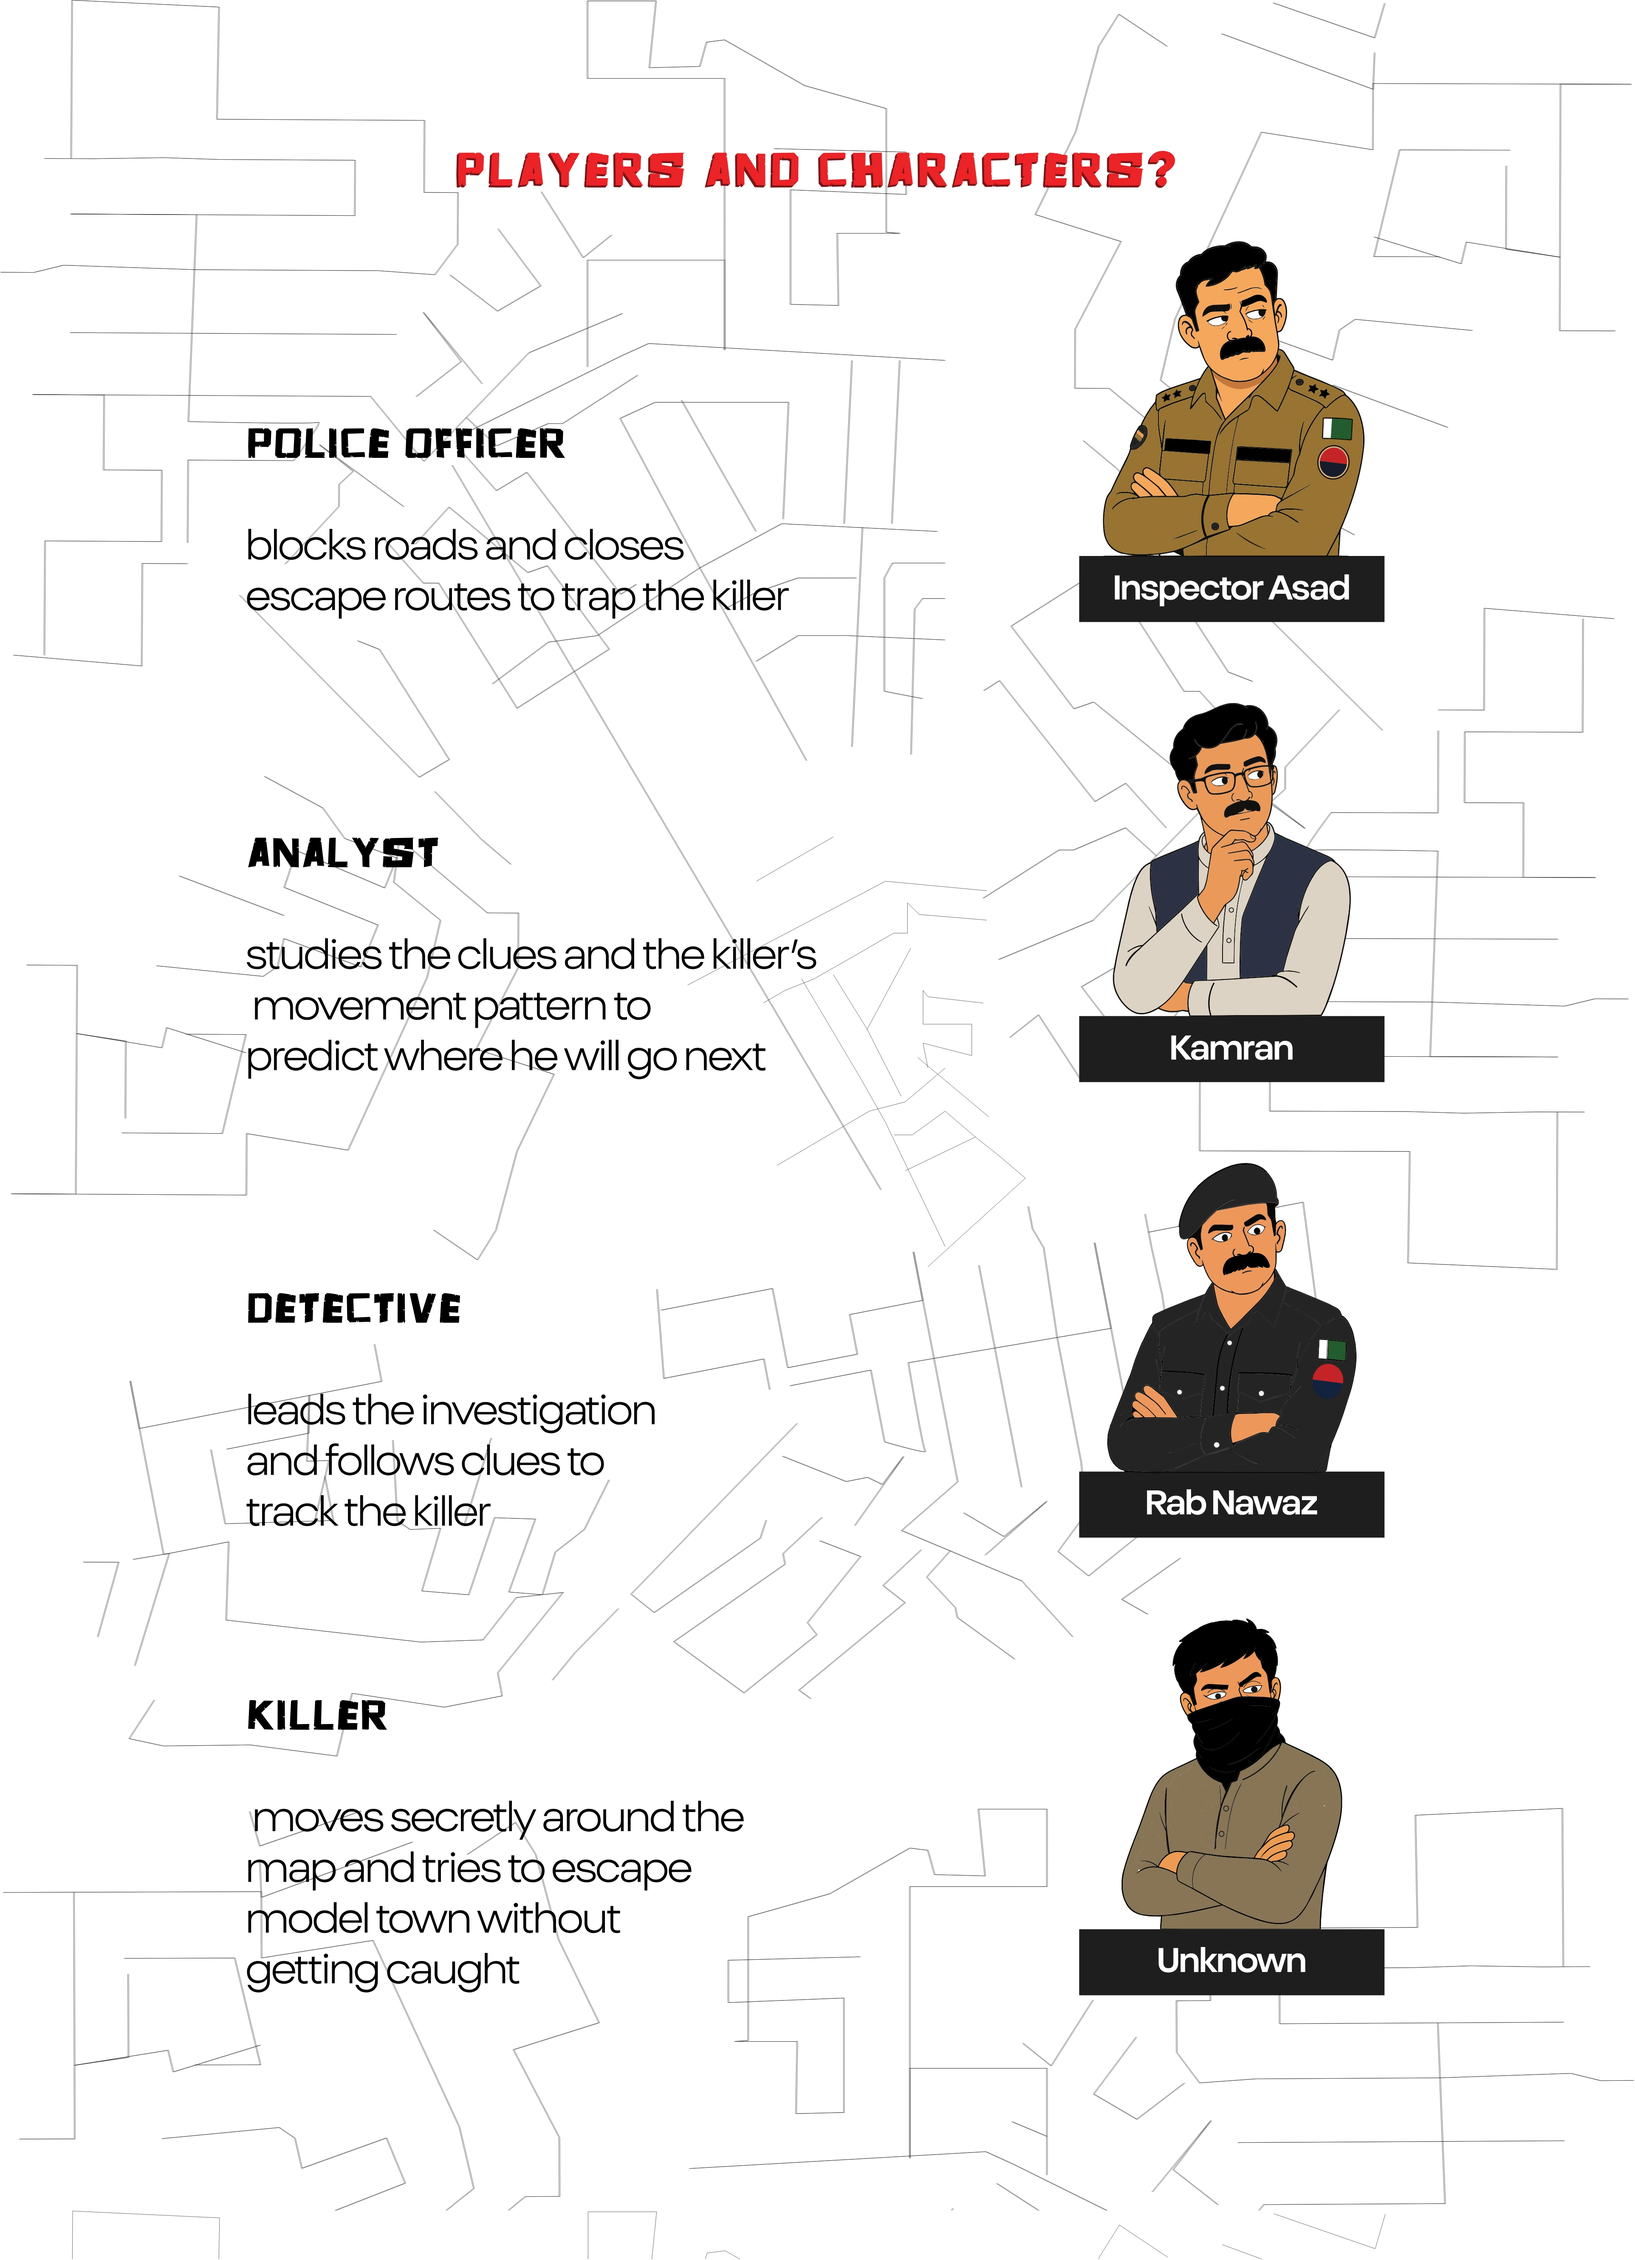
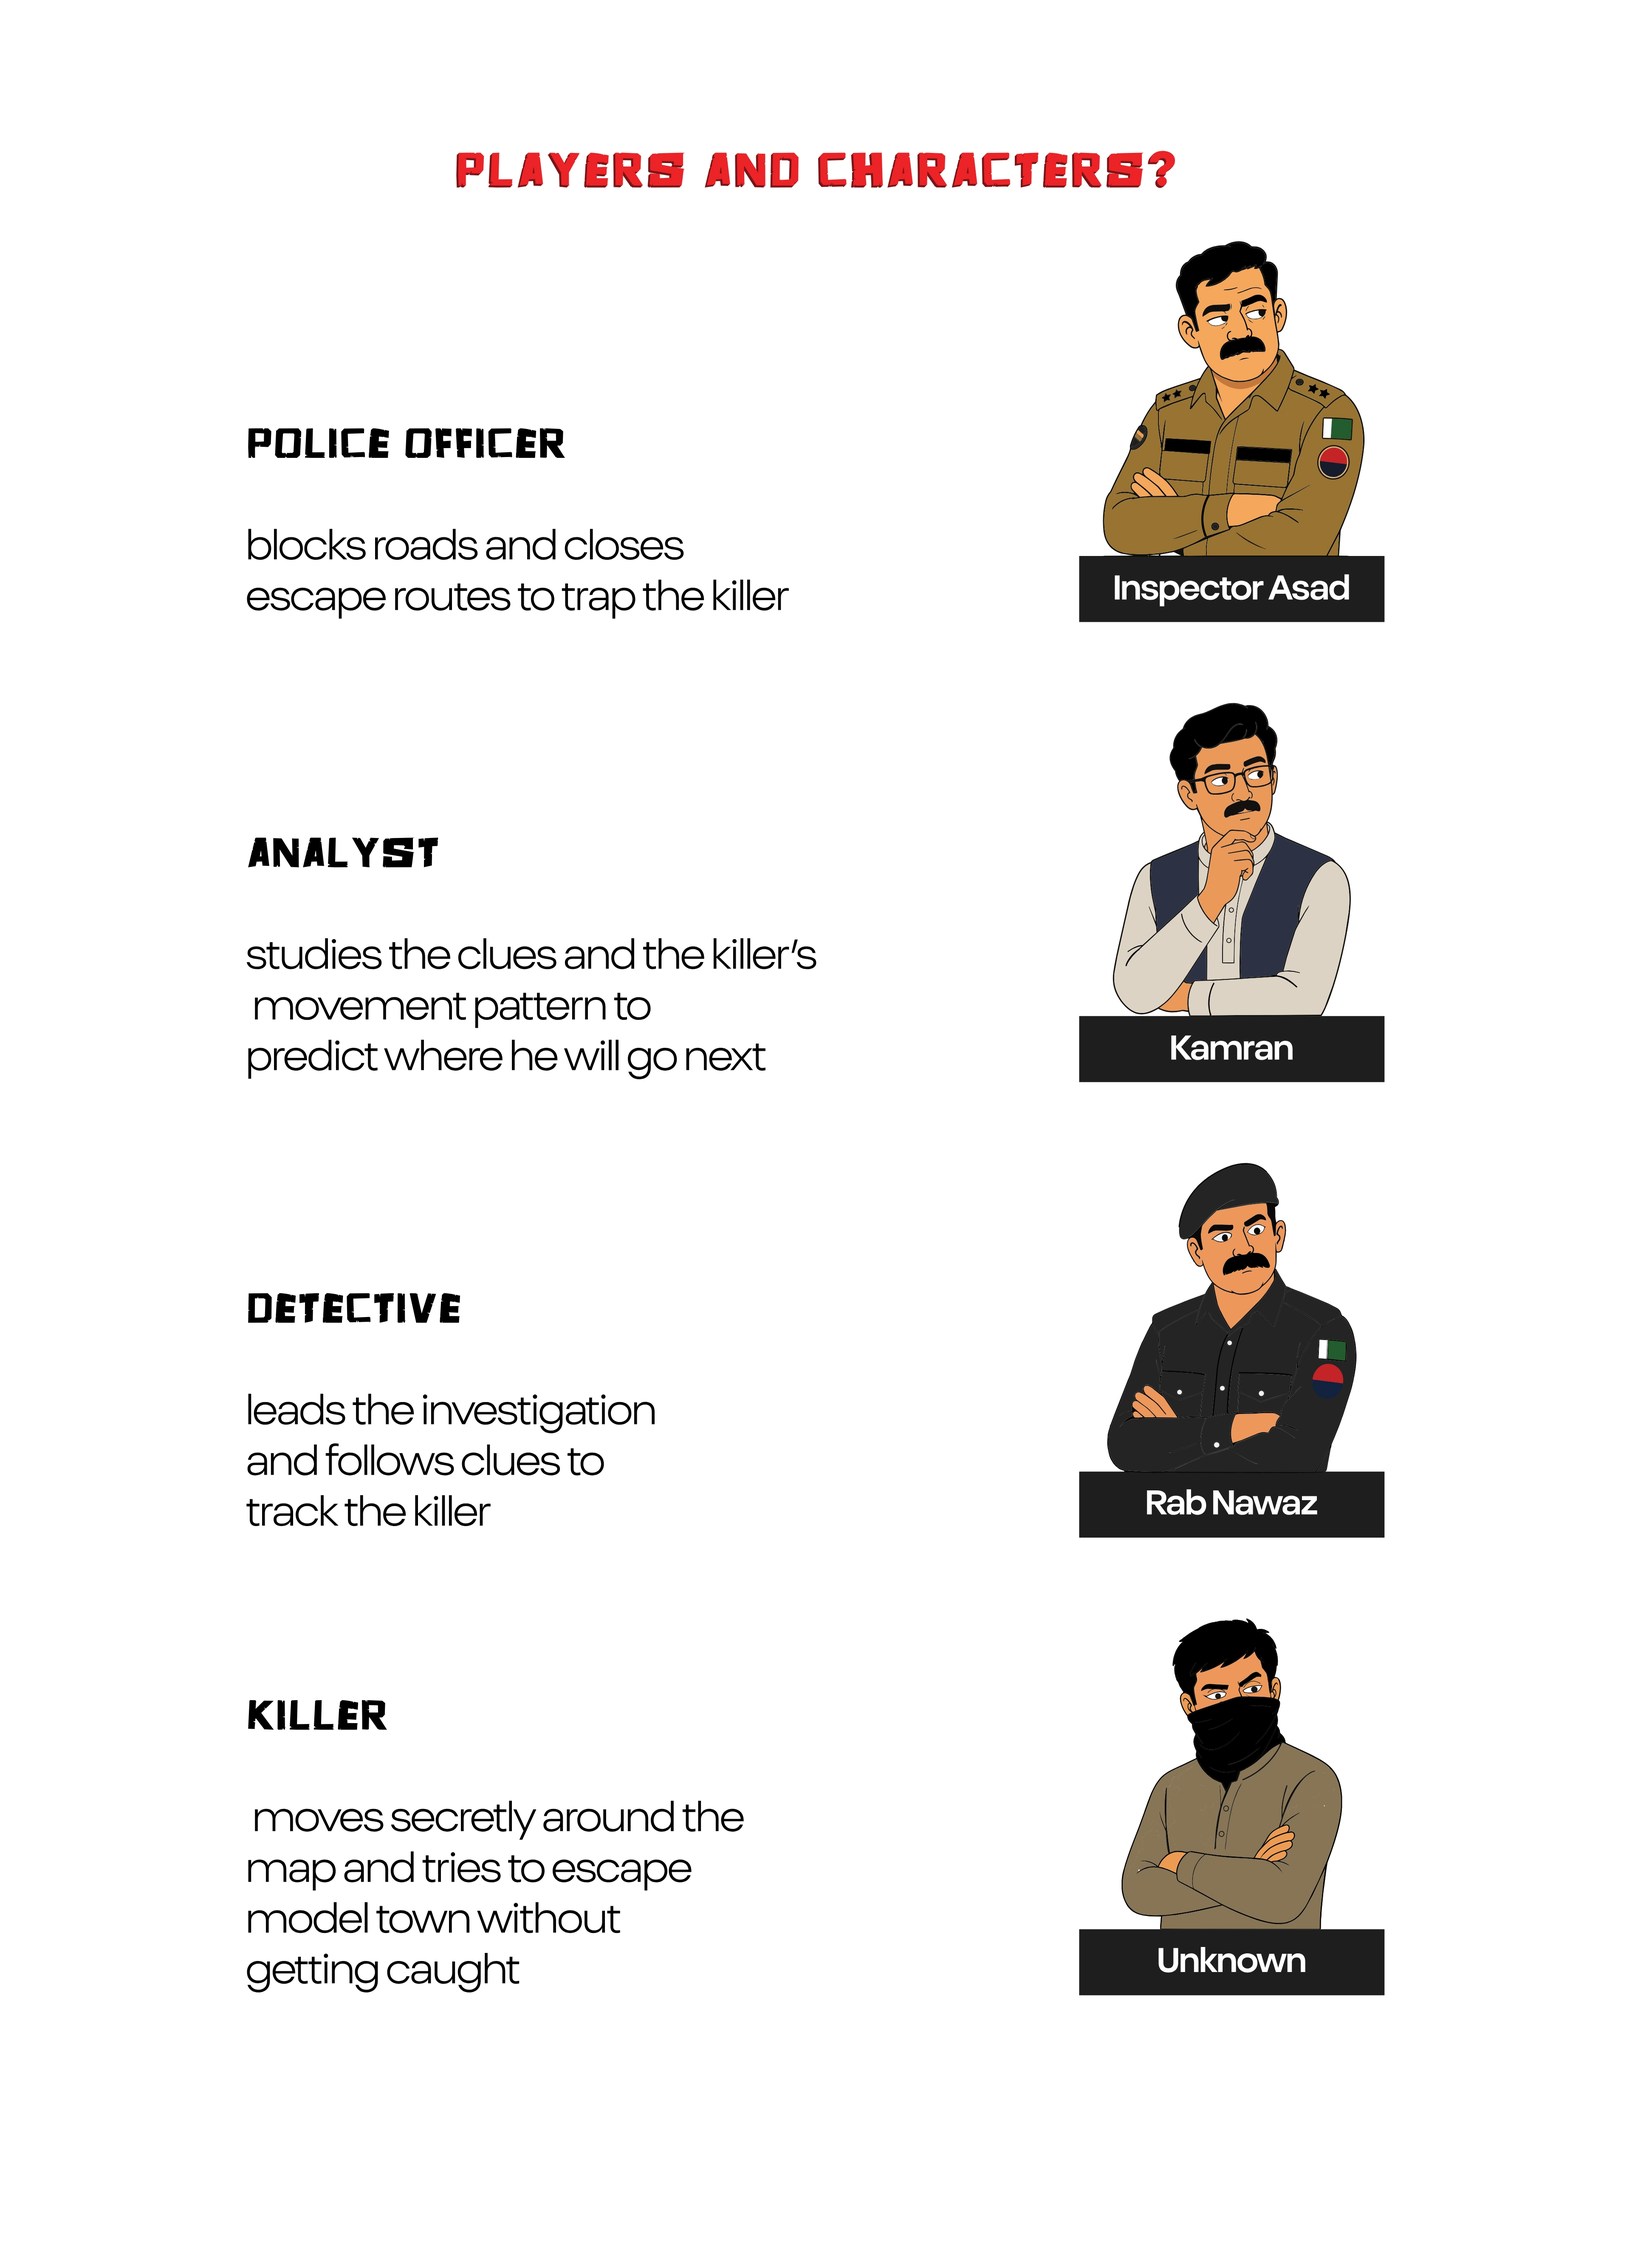
Tafteesh: remove leftover pattern strokes, white case file, no overlay on red slide, add 2 videos
Claude-Session: https://claude.ai/code/session_01Mz8YoCyV9GqPUy48LEwXAZ

diff --git a/index.html b/index.html
@@ -550,7 +550,7 @@ const PROJECTS = [
     slides:[{src:'images/tafteesh/05.webp',w:3884,h:2990,wr:1,bg:'#1a1a1a',cap:'Tafteesh'},
       {src:'images/tafteesh/06.webp',w:3839,h:2988,wr:1,bg:'#1a1a1a',cap:'What is Tafteesh'},
       {src:'images/tafteesh/07.webp',w:3849,h:5321,wr:1,bg:'#ffffff',cap:'Players and characters'},
-      {drive:'1W17f9zNh6OHzCPc5peW31Sj3C7YfP8Gc',live:false,bg:'#1a1a1a',cap:'Tafteesh logo animation'},
+      {drive:'1W17f9zNh6OHzCPc5peW31Sj3C7YfP8Gc',bg:'#1a1a1a',cap:'Tafteesh logo animation'},
       {src:'images/tafteesh/01.webp',w:3803,h:2323,wr:1,bg:'#ffffff',cap:'How to play'},
       {src:'images/tafteesh/03.webp',w:3839,h:2920,wr:1,bg:'#1a1a1a',cap:'Unresolved cases'},
       {src:'images/tafteesh/04.webp',w:3839,h:2920,wr:1,bg:'#1a1a1a',cap:'Case 01, Blackout'},
@@ -559,8 +559,8 @@ const PROJECTS = [
       {src:'images/tafteesh/09.webp',w:3840,h:5254,wr:1,bg:'#ffffff',cap:'Key'},
       {src:'images/tafteesh/11.webp',w:3840,h:3678,wr:1,bg:'#1a1a1a',cap:'Killer sheet'},
       {src:'images/tafteesh/12.webp',w:3840,h:3872,wr:1,bg:'#ffffff',cap:'Rulebook and story'},
-      {drive:'1fshaKu4nyqghwaiyuHDnW7lI43Zv9TKA',live:false,bg:'#ffffff',cap:'Tafteesh rulebook animation'},
-      {src:'images/tafteesh/10.webp',w:3840,h:2987,wr:1,bg:'#e82329',cap:'Typeface'},
+      {drive:'1fshaKu4nyqghwaiyuHDnW7lI43Zv9TKA',bg:'#ffffff',cap:'Tafteesh rulebook animation'},
+      {np:1,src:'images/tafteesh/10.webp',w:3840,h:2987,wr:1,bg:'#e82329',cap:'Typeface'},
       {src:'images/tafteesh/13.webp',w:3840,h:4031,wr:1,bg:'#ffffff',cap:'Lid wrap'},
       {src:'images/tafteesh/14.webp',w:3840,h:4028,wr:1,bg:'#ffffff',cap:'Base wrap'},
       {src:'images/tafteesh/16.webp',w:2800,h:1575,wr:1,bg:'#1a1a1a',cap:'The box'},
@@ -1016,7 +1016,7 @@ function caseHTML(p){
   const band=(f,cls)=>`<div class="flow-band${cls||''}" style="background:${f.bg};--ar:${(f.w/f.h).toFixed(3)}">${f.video?`<video src="${f.video}" poster="${f.poster}" controls muted loop playsinline preload="metadata"></video>`:`<img src="${f.src}" width="${f.w}" height="${f.h}" alt="" loading="lazy" decoding="async" data-zoom="${f.src}">`}</div>`;
   const flow=p.flow||null,sl=p.slides||null;
   return `
-  ${sl?`<div id="heroArt" class="sl">${sl.filter(f=>f.live!==false).map(f=>f.drive?`<figure class="sf vf" style="background-color:${f.bg}"><iframe src="https://drive.google.com/file/d/${f.drive}/preview" title="${esc(f.cap)}" allow="autoplay; fullscreen" allowfullscreen loading="lazy"></iframe></figure>`:`<figure class="sf" style="background-color:${f.bg}"><img src="${f.src}" width="${f.w}" height="${f.h}" style="width:${f.wr*100}%" alt="${esc(f.cap)}" decoding="async" data-zoom="${f.src}"${sl.indexOf(f)>1?' loading="lazy"':''}></figure>`).join('')}</div>`:flow?`<div id="heroArt" class="flow-cover">${band(flow[0])}</div>`:`<div class="case-hero">
+  ${sl?`<div id="heroArt" class="sl">${sl.filter(f=>f.live!==false).map(f=>f.drive?`<figure class="sf vf" style="background-color:${f.bg}"><iframe src="https://drive.google.com/file/d/${f.drive}/preview" title="${esc(f.cap)}" allow="autoplay; fullscreen" allowfullscreen loading="lazy"></iframe></figure>`:`<figure class="sf" style="background-color:${f.bg}${f.np?';background-image:none':''}"><img src="${f.src}" width="${f.w}" height="${f.h}" style="width:${f.wr*100}%" alt="${esc(f.cap)}" decoding="async" data-zoom="${f.src}"${sl.indexOf(f)>1?' loading="lazy"':''}></figure>`).join('')}</div>`:flow?`<div id="heroArt" class="flow-cover">${band(flow[0])}</div>`:`<div class="case-hero">
     <div class="hero-art" id="heroArt">${heroArt(p)}</div>
     <div class="case-hero-in">
       <div class="case-cats">${p.cats.map(c=>`<span class="chip">${esc(c)}</span>`).join('')}<span class="chip">${esc(p.year)}</span></div>
